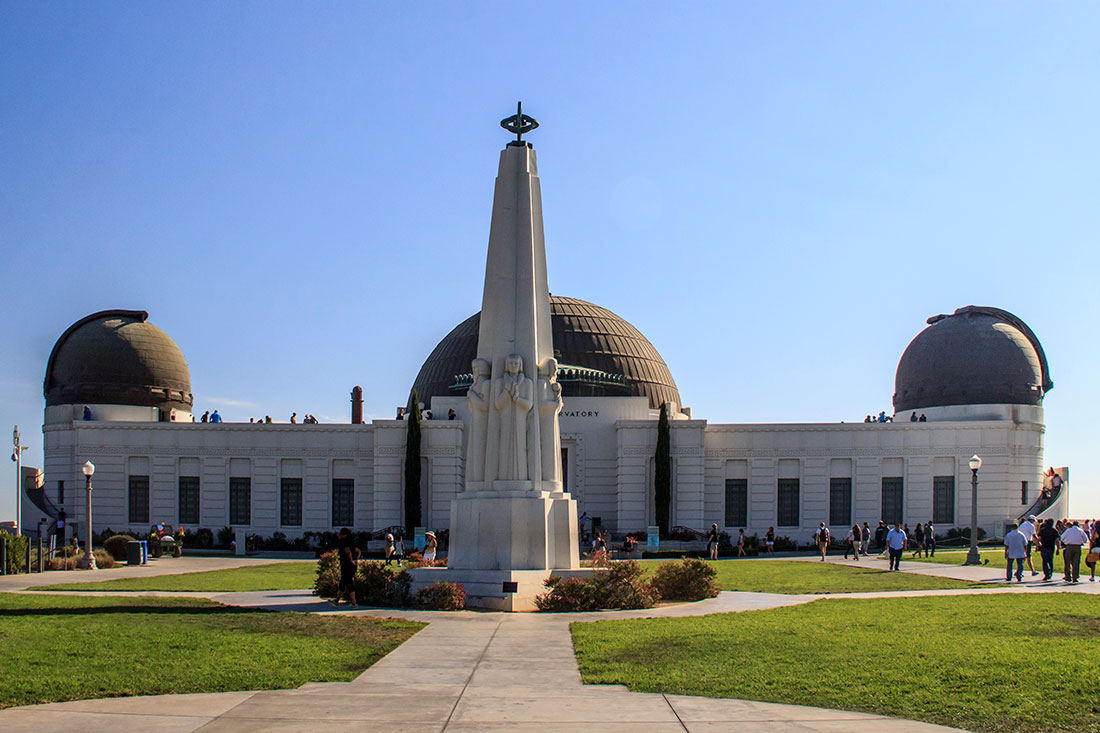
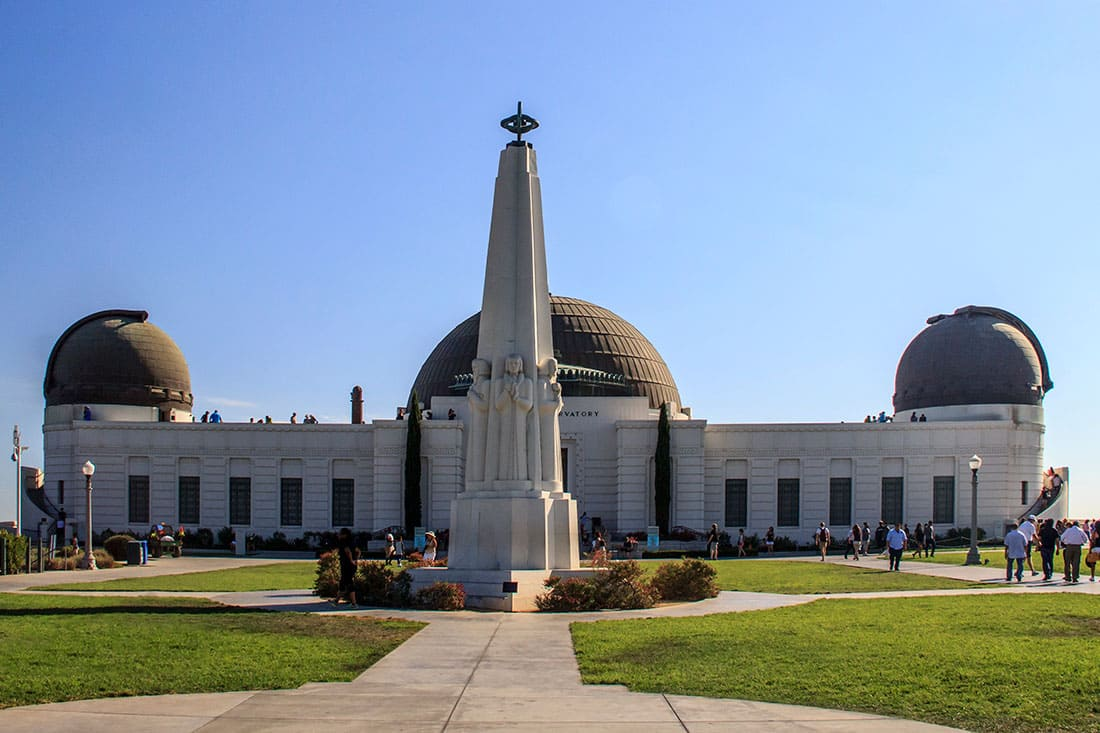
Made pictures size smaller Added tested module "anc_intersting_places" Little fixes

diff --git a/index.html b/index.html
@@ -29,7 +29,7 @@
                     <h2 class="content__subtitle__LA">Город ангелов</h2>
                 </div>
                 <div class="content__article__LA">
-                    <div class="LA_description">
+                    <div class="description">
                         <p>
                             Лос-Анджелес известен как мировая столица развлечений, и не случайно. Фильмы,
                             телевизионные
@@ -56,7 +56,7 @@
                             <div class="box_shadow">
                                 <img src="/src/pictures/LA/LA_CONTENT/1_Disneyland.jpg" alt="Диснейлэнд">
 
-                                <figcaption class="figcaptions figcaption__LA1">
+                                <figcaption class="figcaptions">
 
                                     <p>
                                         Расположенный в городе Анахайм, что примерно в часе езды от центра
@@ -87,7 +87,7 @@
                             <h2>Аллея славы</h2>
                             <div class="box_shadow">
                                 <img src="/src/pictures/LA/LA_CONTENT/2_Walk_of_Fame.jpg" alt="Аллея славы">
-                                <figcaption class="figcaptions figcaption__LA2">
+                                <figcaption class="figcaptions">
                                     <p>Идея увековечить память знаменитостей с помощью звезд, вмонтированных в
                                         тротуары,
                                         и тем самым сохранить и усилить гламур Голливуда появилась в 1950-х годах.
@@ -112,7 +112,7 @@
                             <h2>Пирс Санта-Моники</h2>
                             <div class="box_shadow">
                                 <img src="/src/pictures/LA/LA_CONTENT/3_santa-monica-pier.jpg" alt="Пирс Санта-Моники">
-                                <figcaption class="figcaptions figcaption__LA3">
+                                <figcaption class="figcaptions">
                                     <p>Всемирно известный пирс Санта-Моники, который всегда был и до сих пор
                                         остается
                                         объектом любви жителей и гостей города, славится прежде всего тем, что
@@ -140,7 +140,7 @@
                             <h2>Улица Родео-Драйв</h2>
                             <div class="box_shadow">
                                 <img src="/src/pictures/LA/LA_CONTENT/4_rodeo-drive.jpg" alt="Улица Родео-Драйв">
-                                <figcaption class="figcaptions figcaption__LA4">
+                                <figcaption class="figcaptions">
                                     <p>
                                         В престижном Беверли-Хиллз, в районе 16 кварталов, известном как «Золотой
                                         треугольник», «спряталась» Родео-Драйв – самая знаменитая торговая улица
@@ -167,7 +167,7 @@
                             <div class="box_shadow">
                                 <img src="/src/pictures/LA/LA_CONTENT/5_mulholland-drive.jpg"
                                     alt="Улица и дорога Малхолланд-Драйв">
-                                <figcaption class="figcaptions figcaption__LA5">
+                                <figcaption class="figcaptions">
                                     <p>
                                         Малхолланд-Драйв, построенный в 1924 году и названный в честь
                                         инженера-строителя, который помимо этого помогал создавать водную
@@ -195,7 +195,7 @@
                             <h2>Знак Голливуда</h2>
                             <div class="box_shadow">
                                 <img src="/src/pictures/LA/LA_CONTENT/6_hollywood-sign.jpg" alt="Знак Голливуда">
-                                <figcaption class="figcaptions figcaption__LA6">
+                                <figcaption class="figcaptions">
                                     <p>
                                         Первоначально установленные для рекламы недвижимости на Голливудских холмах,
                                         гигантские буквы, составляющие слово «Голливуд» стали символом
@@ -222,7 +222,7 @@
                             <div class="box_shadow">
                                 <img src="/src/pictures/LA/LA_CONTENT/7_oue-skyspace-la.jpg"
                                     alt="Смотровая площадка OUE Skyspace LA">
-                                <figcaption class="figcaptions figcaption__LA7">
+                                <figcaption class="figcaptions">
                                     <p>
                                         Skyspace – самая высокая смотровая площадка Лос-Анджелеса, ведь расположена
                                         она
@@ -253,7 +253,7 @@
                             <div class="box_shadow">
                                 <img src="/src/pictures/LA/LA_CONTENT/8_pacific-park.jpg"
                                     alt="Парк развлечений Pacific">
-                                <figcaption class="figcaptions figcaption__LA8">
+                                <figcaption class="figcaptions">
                                     <p>
                                         Расположенный на пирсе Санта-Моники парк развлечений Pacific Park
                                         (Тихоокеанский
@@ -281,7 +281,7 @@
                             <div class="box_shadow">
                                 <img src="/src/pictures/LA/LA_CONTENT/9_natural-history-museum-of-los-angeles-county.jpg"
                                     alt="Лос-Анджелесский музей естественной истории">
-                                <figcaption class="figcaptions figcaption__LA9">
+                                <figcaption class="figcaptions">
                                     <p>
                                         Музей естествознания, посвященный естественной истории как Калифорнии, так и
                                         других областей мира, обладает огромной коллекцией, которая охватывает целый
@@ -304,7 +304,7 @@
                             <div class="box_shadow">
                                 <img src="/src/pictures/LA/LA_CONTENT/10_griffith-park-observatory.jpg"
                                     alt="Парк и Обсерватория Гриффита">
-                                <figcaption class="figcaptions figcaption__LA10">
+                                <figcaption class="figcaptions">
                                     <p>
                                         Гриффит-Парк, один из крупнейших муниципальных парков США, предлагает
                                         возможность немного отдохнуть от стремительного ритма мегаполиса. Парк
@@ -351,63 +351,63 @@
                         <h2>Лучшие отели Лос-Анджелеса</h2>
                         <div class="grid_hotels">
                             <div class="hotel hotelLA">
-                                <img src="/src/pictures/LA/LA_HOTELS/1.png">
+                                <img src="/src/pictures/LA/LA_HOTELS/1.png" alt="VICEROY L’ERMITAGE BEVERLY HILLS">
                                 <div class="hotel__info">
                                     <p>VICEROY L’ERMITAGE BEVERLY HILLS</p>
                                     <p>&#11088;&#11088;&#11088;&#11088;&#11088;</p>
                                 </div>
                             </div>
                             <div class="hotel hotelLA">
-                                <img src="/src/pictures/LA/LA_HOTELS/2.jpg">
+                                <img src="/src/pictures/LA/LA_HOTELS/2.jpg" alt="The Peninsula Beverly Hills">
                                 <div class="hotel__info">
                                     <p>The Peninsula Beverly Hills</p>
                                     <p>&#11088;&#11088;&#11088;&#11088;&#11088;</p>
                                 </div>
                             </div>
                             <div class="hotel hotelLA">
-                                <img src="/src/pictures/LA/LA_HOTELS/3.jpg">
+                                <img src="/src/pictures/LA/LA_HOTELS/3.jpg" alt="Four Seasons Hotel">
                                 <div class="hotel__info">
                                     <p>Four Seasons Hotel</p>
                                     <p>&#11088;&#11088;&#11088;&#11088;&#11088;</p>
                                 </div>
                             </div>
                             <div class="hotel hotelLA">
-                                <img src="/src/pictures/LA/LA_HOTELS/4.jpg">
+                                <img src="/src/pictures/LA/LA_HOTELS/4.jpg" alt="Bel-Air">
                                 <div class="hotel__info">
                                     <p>Bel-Air</p>
                                     <p>&#11088;&#11088;&#11088;&#11088;&#11088;</p>
                                 </div>
                             </div>
                             <div class="hotel hotelLA">
-                                <img src="/src/pictures/LA/LA_HOTELS/5.jpg">
+                                <img src="/src/pictures/LA/LA_HOTELS/5.jpg" alt="Residence Inn by Marriott">
                                 <div class="hotel__info">
                                     <p>Residence Inn by Marriott</p>
                                     <p>&#11088;&#11088;&#11088;&#11088;&#11088;</p>
                                 </div>
                             </div>
                             <div class="hotel hotelLA">
-                                <img src="/src/pictures/LA/LA_HOTELS/6.jpg">
+                                <img src="/src/pictures/LA/LA_HOTELS/6.jpg" alt="Residence Inn by Marriott Boulevard">
                                 <div class="hotel__info">
                                     <p>Residence Inn by Marriott Boulevard</p>
                                     <p>&#11088;&#11088;&#11088;&#11088;&#11088;</p>
                                 </div>
                             </div>
                             <div class="hotel hotelLA">
-                                <img src="/src/pictures/LA/LA_HOTELS/7.jpg">
+                                <img src="/src/pictures/LA/LA_HOTELS/7.jpg" alt="Omni Hotel">
                                 <div class="hotel__info">
                                     <p>Omni Hotel</p>
                                     <p>&#11088;&#11088;&#11088;&#11088;&#11088;</p>
                                 </div>
                             </div>
                             <div class="hotel hotelLA">
-                                <img src="/src/pictures/LA/LA_HOTELS/8.jpg">
+                                <img src="/src/pictures/LA/LA_HOTELS/8.jpg" alt="The Redbury">
                                 <div class="hotel__info">
                                     <p>The Redbury</p>
                                     <p>&#11088;&#11088;&#11088;&#11088;&#11088;</p>
                                 </div>
                             </div>
                             <div class="hotel hotelLA">
-                                <img src="/src/pictures/LA/LA_HOTELS/9.jpg">
+                                <img src="/src/pictures/LA/LA_HOTELS/9.jpg" alt="Sheraton">
                                 <div class="hotel__info">
                                     <p>Sheraton</p>
                                     <p>&#11088;&#11088;&#11088;&#11088;&#11088;</p>
@@ -429,15 +429,73 @@
             </div>
             <div class="wrapper">
                 <div class="main__content__Anchorage">
-                    <p>
-                        Анкоридж<br>
-                        Анкоридж - это крупнейший город на Аляске, который расположен на юге. Многие туристы, решившие
-                        посетить данный штат, решают отправиться именно в Анкоридж. В городе проживает более 300 тысяч человек. В
-                        Анкоридже туристы смогут найти множество прогулочных мест, а также разнообразных музеев. Помимо этого, здесь
-                        есть замечательный ботанический сад, знаменитый Собор Святого Семейства, огромный торговый центр и порт.
-                        Самый большой город Аляски Анкоридж знаменит и своим лыжным курортом. Он не сравнится с Куршевелем, но зато
-                        он в полной мере бюджетный и доступен абсолютно всем.
-                    </p>
+                    <h1>Anchorage</h1>
+                    <h2>«Якорная Стоянка»</h2>
+                    <section class="description">
+                        <p>
+                            Анкоридж - это крупнейший город на Аляске, который расположен на юге. Многие туристы,
+                            решившие
+                            посетить данный штат, решают отправиться именно в Анкоридж. В городе проживает более 300
+                            тысяч человек. В
+                            Анкоридже туристы смогут найти множество прогулочных мест, а также разнообразных музеев.
+                            Помимо этого, здесь
+                            есть замечательный ботанический сад, знаменитый Собор Святого Семейства, огромный торговый
+                            центр и порт.
+                            Самый большой город Аляски Анкоридж знаменит и своим лыжным курортом. Он не сравнится с
+                            Куршевелем, но зато
+                            он в полной мере бюджетный и доступен абсолютно всем.
+                        </p>
+                    </section>
+                    <h2>Интересные места Анкориджа</h2>
+                    <div class="anc_intersting_places">
+                        <figure>
+                            <p>Hilltop Ski Area1</p>
+                            <img src="/src/pictures/ANCHORAGE/ANC_INTERESTING_PLACES/Hilltop_Ski_Area_1.jpg"
+                                alt="Hilltop Ski Area">
+                            <figcaption>
+                            </figcaption>
+                        </figure>
+                        <figure>
+                            <p>Hilltop Ski Area2</p>
+                            <img src="/src/pictures/ANCHORAGE/ANC_INTERESTING_PLACES/Hilltop_Ski_Area_1.jpg" alt="">
+                            <figcaption></figcaption>
+                        </figure>
+                        <figure>
+                            <p>Hilltop Ski Area3</p>
+                            <img src="/src/pictures/ANCHORAGE/ANC_INTERESTING_PLACES/Hilltop_Ski_Area_1.jpg" alt="">
+                            <figcaption></figcaption>
+                        </figure>
+                        <figure>
+                            <p>Hilltop Ski Area4</p>
+                            <img src="/src/pictures/ANCHORAGE/ANC_INTERESTING_PLACES/Hilltop_Ski_Area_1.jpg" alt="">
+                            <figcaption></figcaption>
+                        </figure>
+                        <figure>
+                            <p>Hilltop Ski Area5</p>
+                            <img src="/src/pictures/ANCHORAGE/ANC_INTERESTING_PLACES/Hilltop_Ski_Area_1.jpg" alt="">
+                            <figcaption></figcaption>
+                        </figure>
+                        <figure>
+                            <p>Hilltop Ski Area6</p>
+                            <img src="/src/pictures/ANCHORAGE/ANC_INTERESTING_PLACES/Hilltop_Ski_Area_1.jpg" alt="">
+                            <figcaption></figcaption>
+                        </figure>
+                        <figure>
+                            <p>Hilltop Ski Area7</p>
+                            <img src="/src/pictures/ANCHORAGE/ANC_INTERESTING_PLACES/Hilltop_Ski_Area_1.jpg" alt="">
+                            <figcaption></figcaption>
+                        </figure>
+                        <figure>
+                            <p>Hilltop Ski Area8</p>
+                            <img src="/src/pictures/ANCHORAGE/ANC_INTERESTING_PLACES/Hilltop_Ski_Area_1.jpg" alt="">
+                            <figcaption></figcaption>
+                        </figure>
+                        <figure>
+                            <p>Hilltop Ski Area9</p>
+                            <img src="/src/pictures/ANCHORAGE/ANC_INTERESTING_PLACES/Hilltop_Ski_Area_1.jpg" alt="">
+                            <figcaption></figcaption>
+                        </figure>
+                    </div>
                 </div>
             </div>
         </div>

diff --git a/src/styles/style.css b/src/styles/style.css
@@ -28,6 +28,16 @@ p, figcaption {
     text-align: center;
 }
 
+.common_content {
+    background-color: rgba(255, 255, 255, 0.596);
+    border-radius: 20px;
+    -webkit-border-radius: 20px;
+    -moz-border-radius: 20px;
+    -ms-border-radius: 20px;
+    -o-border-radius: 20px;
+    width: auto;
+}
+
 /*Parallax + LA*/
 
 .citys__USA {
@@ -37,7 +47,6 @@ p, figcaption {
     top: 0;
     left: 0;
 }
-
 
 .parallax {
     position: relative;
@@ -107,7 +116,7 @@ p, figcaption {
     -o-border-radius: 20px;
 }
 
-.content__article__LA .LA_description p {
+.description p {
     display: flex;
     justify-content: center;
     margin: 15px auto;
@@ -115,7 +124,7 @@ p, figcaption {
     line-height: 1.5;
 }
 
-.content__article__LA .LA_description {
+.description {
     background-color: rgba(255, 255, 255, 0.6);
     border-radius: 20px;
     -webkit-border-radius: 20px;
@@ -439,8 +448,15 @@ figure .box_shadow img {
     font-size: 22px;
     font-weight: bold;
     top: 0;
-    background-color: rgba(255, 255, 255, 0.596);
+    background-color: rgba(255, 255, 255, 0.597);
     border-radius: 20px;
+    display: flex;
+    flex-direction: column;
+    justify-content: center;
+    align-items: center;
+    padding: 1% 5%;
+    perspective: 1000px;
+    transform-style: flat;
 }
 
 .cloud img {
@@ -512,4 +528,59 @@ figure .box_shadow img {
     -webkit-animation: animCloud 80s infinite linear;
     -moz-animation: animCloud 80s infinite linear;
     animation: animCloud 80s infinite linear
+}
+
+
+.anc_intersting_places{
+    display: grid;
+    grid-template-columns: 30% 30% 30%;
+    justify-content: space-evenly;
+    padding: 3% 0;
+}
+
+.anc_intersting_places img{
+    max-width: 100%;
+    object-fit: cover;
+}
+
+.anc_intersting_places figure{
+    margin: 0;
+    transition: all 1s;
+    -webkit-transition: all .9s;
+    -moz-transition: all 1s;
+    -ms-transition: all 1s;
+    -o-transition: all 1s;
+    transform:rotateX(55deg) rotateZ(-30deg) rotateY(15deg) translateX(15%) translateY(-20%) ;
+    -webkit-transform:rotateX(55deg) rotateZ(-30deg) rotateY(15deg) translateX(15%) translateY(-20%) ;
+    -moz-transform:rotateX(55deg) rotateZ(-30deg) rotateY(15deg) translateX(15%) translateY(-20%) ;
+    -ms-transform:rotateX(55deg) rotateZ(-30deg) rotateY(15deg) translateX(15%) translateY(-20%) ;
+    -o-transform:rotateX(55deg) rotateZ(-30deg) rotateY(15deg) translateX(15%) translateY(-20%) ;
+    border-radius: 10px;
+    -webkit-border-radius: 10px;
+    -moz-border-radius: 10px;
+    -ms-border-radius: 10px;
+    -o-border-radius: 10px;
+}
+.anc_intersting_places figure:hover{
+   transform:  rotate(0)  translate(0) scale(1.5);
+   -webkit-transform:  rotate(0)  translate(0) scale(1.5);
+   -moz-transform:  rotate(0)  translate(0) scale(1.5);
+   -ms-transform:  rotate(0)  translate(0) scale(1.5);
+   -o-transform:  rotate(0)  translate(0) scale(1.5);
+   z-index: 100;
+   background-color: rgba(255, 255, 255, 0.6);
+   border: 1px solid cornflowerblue;
+   float: left;
+}
+.anc_intersting_places figure p {
+    opacity: 0;
+    transition: all 1s;
+    -webkit-transition: all 1s;
+    -moz-transition: all 1s;
+    -ms-transition: all 1s;
+    -o-transition: all 1s;
+    
+}
+.anc_intersting_places figure:hover p{
+    opacity: 1;
 }
